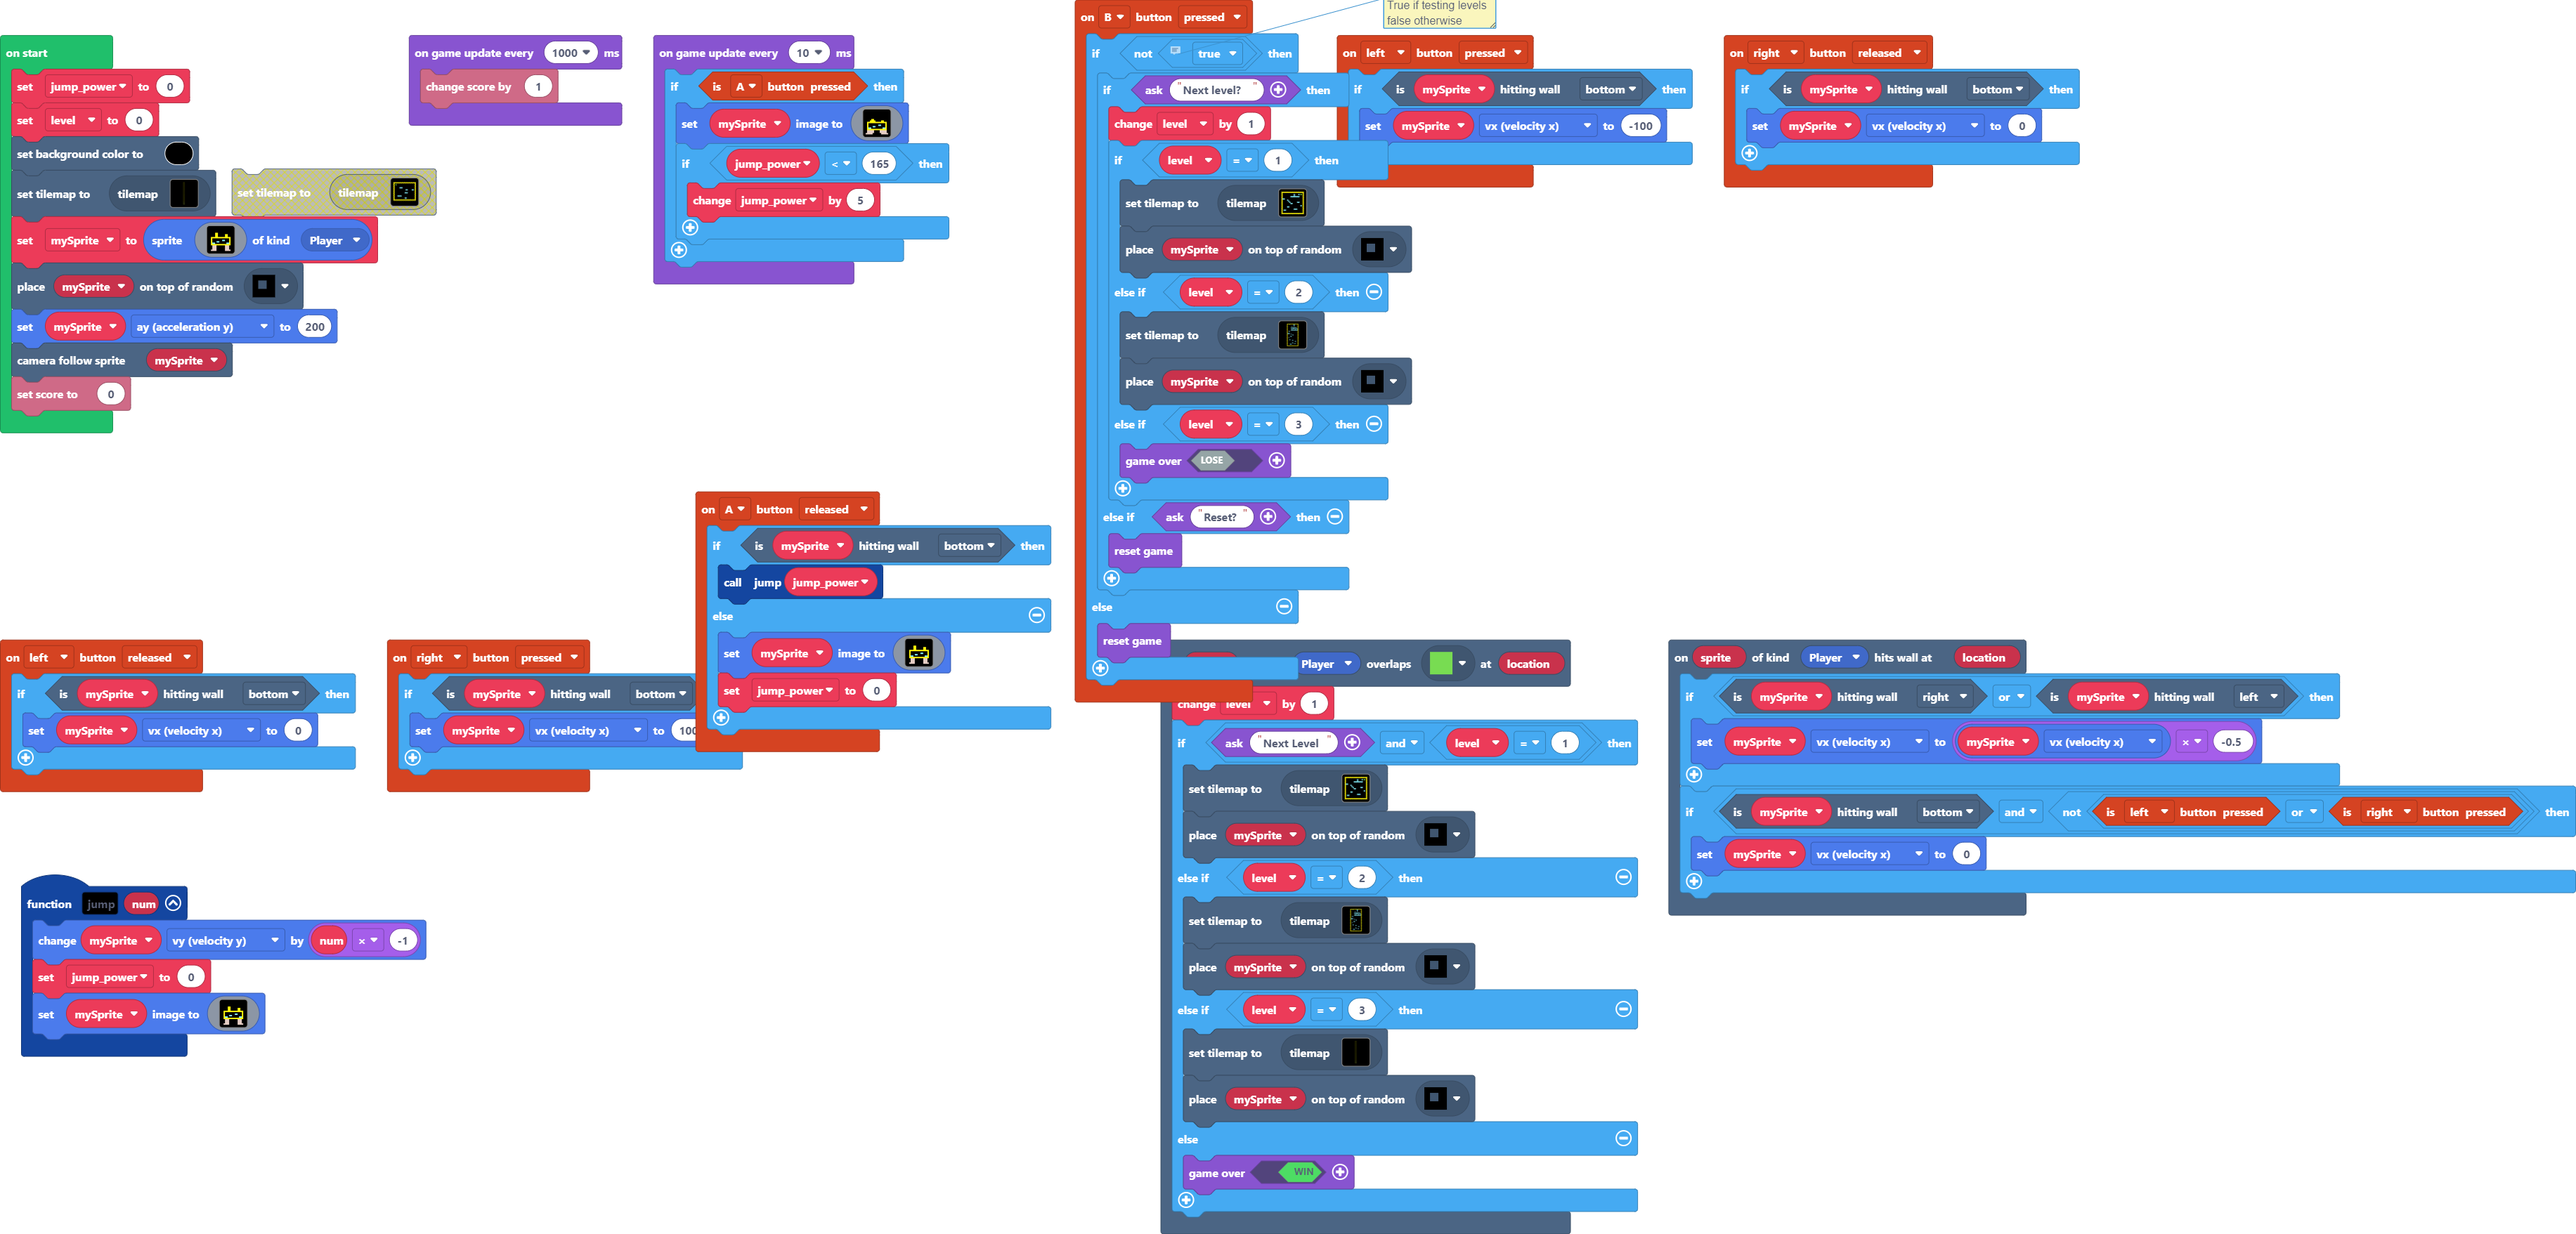
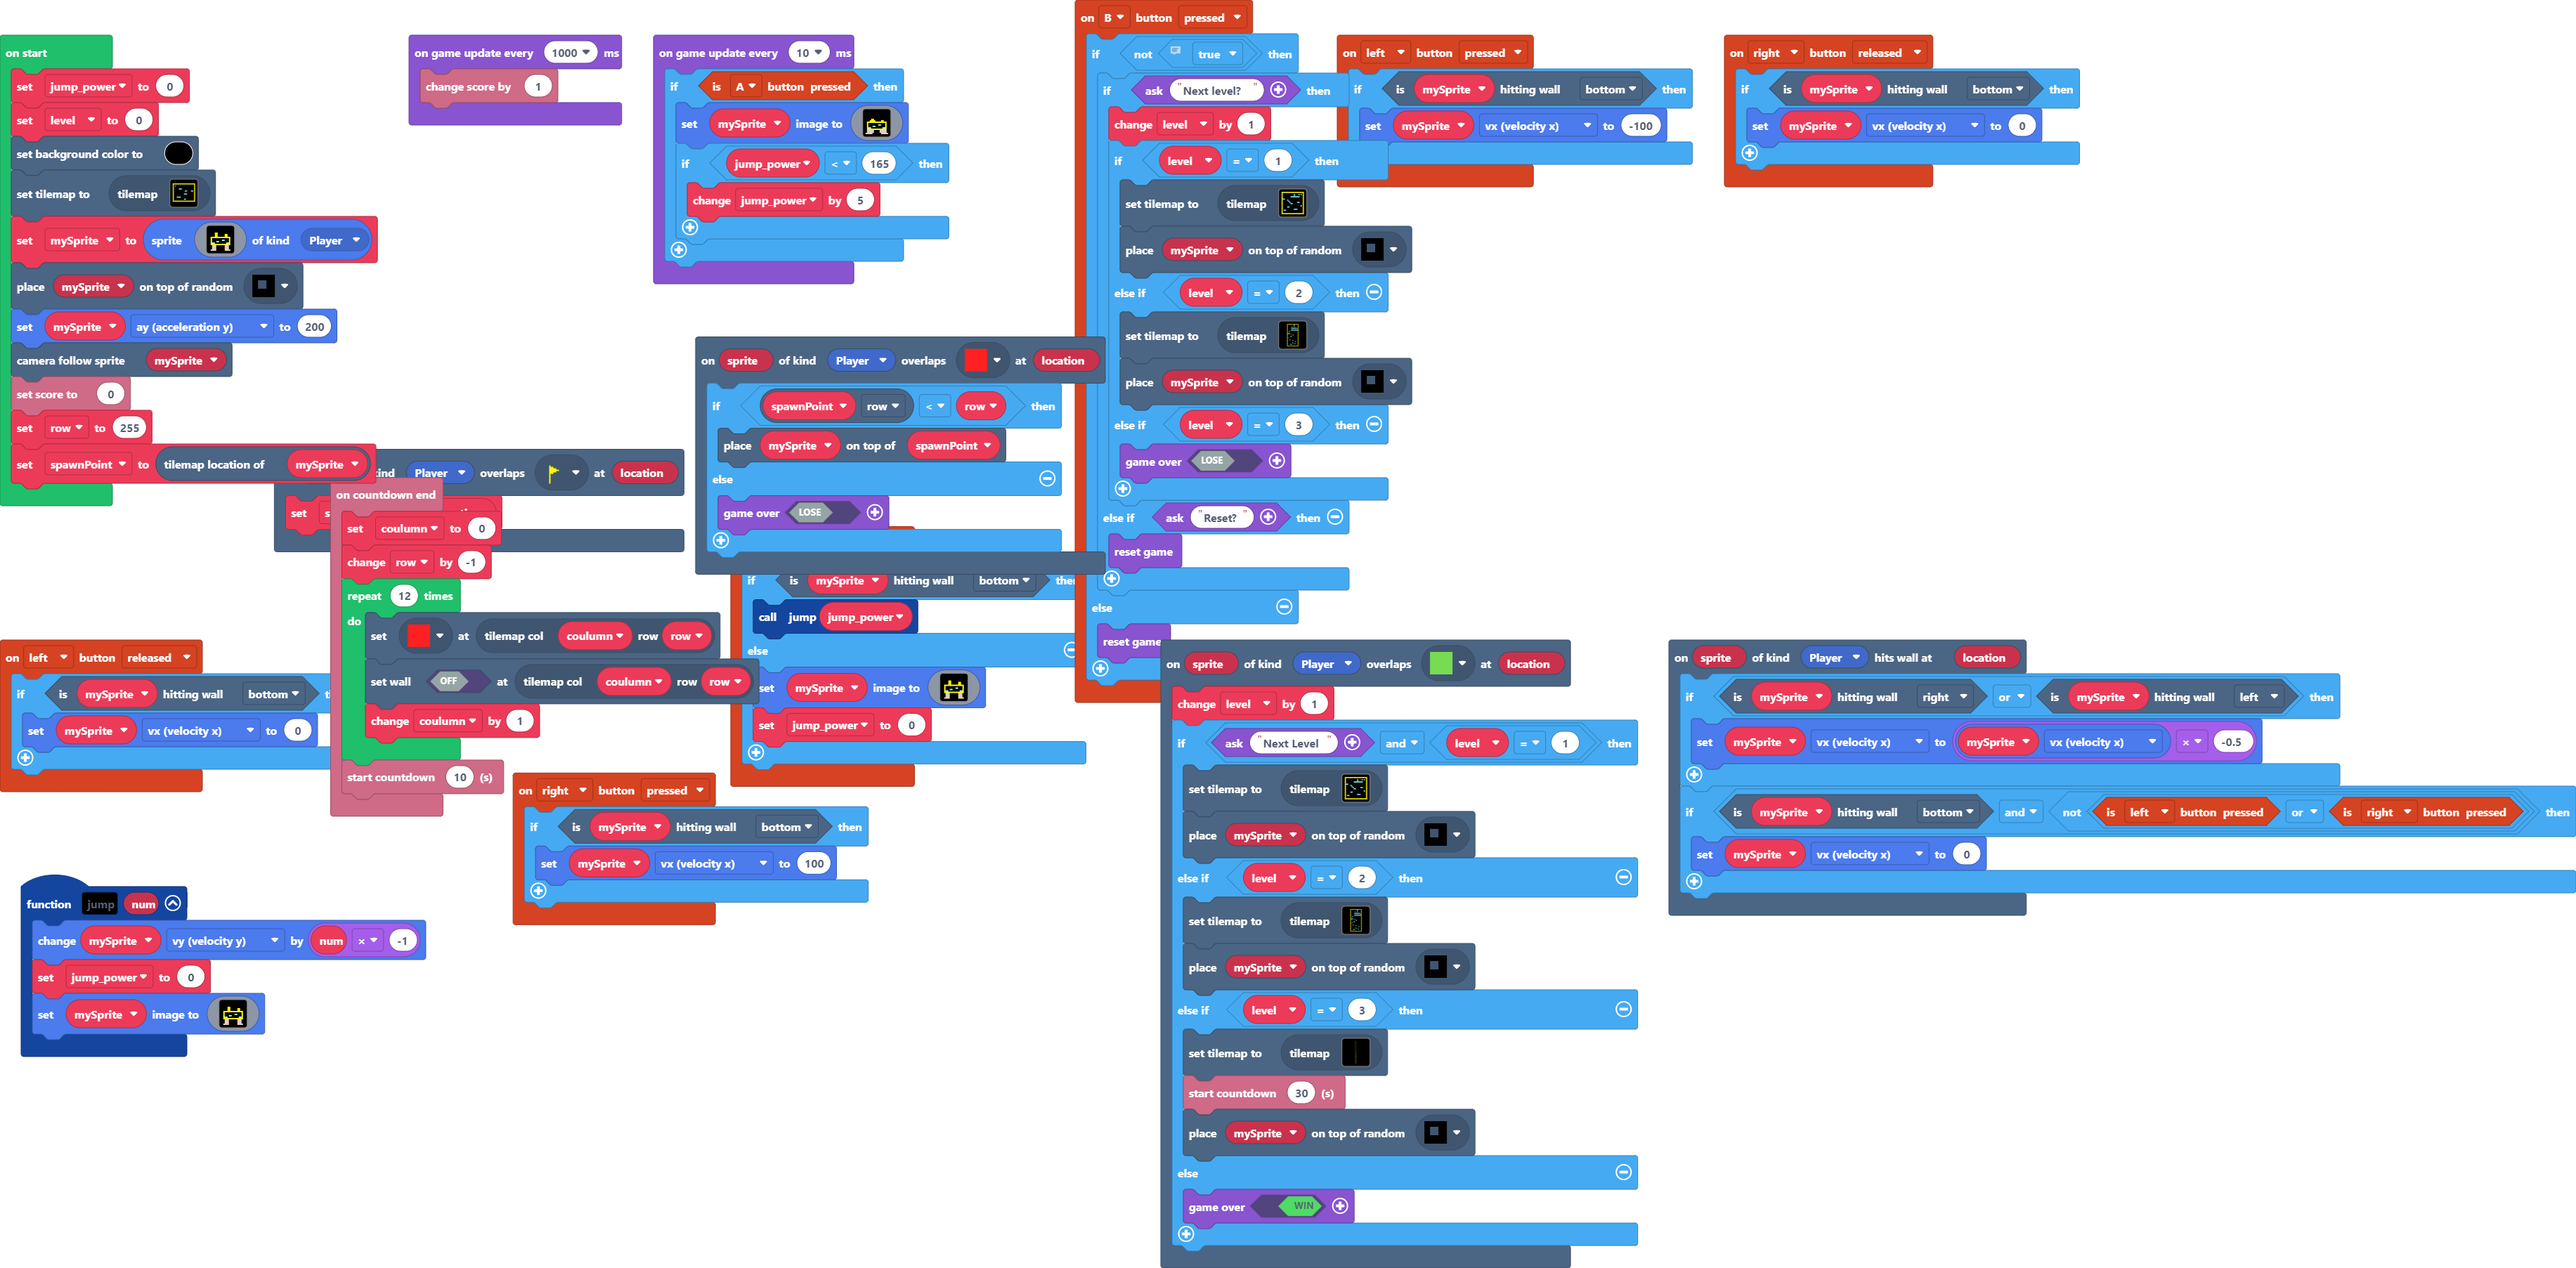
Update main.blocks, main.ts, tilemap.g.jres, tilemap.g.ts

Changed region(s): [[0.0, 0.0, 1.0, 0.9835], [0.5908, 0.9528, 0.6219, 0.9835]]

diff --git a/tilemap.g.ts b/tilemap.g.ts
@@ -28,6 +28,8 @@ namespace myTiles {
     export const tile1 = image.ofBuffer(hex``);
     //% fixedInstance jres blockIdentity=images._tile
     export const tile13 = image.ofBuffer(hex``);
+    //% fixedInstance jres blockIdentity=images._tile
+    export const tile14 = image.ofBuffer(hex``);
 
     helpers._registerFactory("tilemap", function(name: string) {
         switch(helpers.stringTrim(name)) {
@@ -328,7 +330,7 @@ namespace myTiles {
 . . . . . . . . . . . . . . . . 
 `, [myTiles.transparency16], TileScale.Sixteen);
             case "level14":
[2 lines of base64/hex data omitted]
 222222222222
 2..........2
 2..........2
@@ -451,24 +453,24 @@ namespace myTiles {
 2..........2
 2..........2
 2222222....2
+2.......2..2
+2..........2
 2..........2
 2.......2..2
 2..........2
-2.......2..2
 2..........2
 2.......2..2
 2..........2
-2.......2..2
 2..........2
 2.......2..2
 2..........2
-2.......2..2
 2..........2
 2.......2..2
 2..........2
-2.......2..2
 2..........2
 2.......2..2
+2..........2
+2..........2
 2..........2
 2.222......2
 2..........2
@@ -617,6 +619,8 @@ namespace myTiles {
             case "tile1":return tile1;
             case "myTile8":
             case "tile13":return tile13;
+            case "myTile9":
+            case "tile14":return tile14;
         }
         return null;
     })

diff --git a/main.ts b/main.ts
@@ -37,6 +37,7 @@ scene.onOverlapTile(SpriteKind.Player, assets.tile`myTile4`, function (sprite, l
         tiles.placeOnRandomTile(mySprite, assets.tile`spawn block`)
     } else if (level == 3) {
         tiles.setCurrentTilemap(tilemap`level14`)
+        info.startCountdown(30)
         tiles.placeOnRandomTile(mySprite, assets.tile`spawn block`)
     } else {
         game.over(true)
@@ -45,6 +46,13 @@ scene.onOverlapTile(SpriteKind.Player, assets.tile`myTile4`, function (sprite, l
 controller.left.onEvent(ControllerButtonEvent.Pressed, function () {
     if (mySprite.isHittingTile(CollisionDirection.Bottom)) {
         mySprite.vx = -100
+    }
+})
+scene.onOverlapTile(SpriteKind.Player, assets.tile`myTile9`, function (sprite, location) {
+    if (spawnPoint.row < row) {
+        tiles.placeOnTile(mySprite, spawnPoint)
+    } else {
+        game.over(false)
     }
 })
 controller.right.onEvent(ControllerButtonEvent.Released, function () {
@@ -56,6 +64,19 @@ controller.left.onEvent(ControllerButtonEvent.Released, function () {
     if (mySprite.isHittingTile(CollisionDirection.Bottom)) {
         mySprite.vx = 0
     }
+})
+scene.onOverlapTile(SpriteKind.Player, assets.tile`flag`, function (sprite, location) {
+    spawnPoint = location
+})
+info.onCountdownEnd(function () {
+    coulumn = 0
+    row += -1
+    for (let index = 0; index < 12; index++) {
+        tiles.setTileAt(tiles.getTileLocation(coulumn, row), assets.tile`myTile9`)
+        tiles.setWallAt(tiles.getTileLocation(coulumn, row), false)
+        coulumn += 1
+    }
+    info.startCountdown(10)
 })
 controller.right.onEvent(ControllerButtonEvent.Pressed, function () {
     if (mySprite.isHittingTile(CollisionDirection.Bottom)) {
@@ -109,13 +130,16 @@ function jump (num: number) {
         . d d d d . . . . . . d d d d . 
         `)
 }
+let coulumn = 0
+let spawnPoint: tiles.Location = null
+let row = 0
 let mySprite: Sprite = null
 let level = 0
 let jump_power = 0
 jump_power = 0
 level = 0
 scene.setBackgroundColor(15)
-tiles.setCurrentTilemap(tilemap`level14`)
+tiles.setCurrentTilemap(tilemap`level3`)
 mySprite = sprites.create(img`
     . . . . . . . . . . . . . . . . 
     . . . . . . . . . . . . . . . . 
@@ -138,6 +162,8 @@ tiles.placeOnRandomTile(mySprite, assets.tile`spawn block`)
 mySprite.ay = 200
 scene.cameraFollowSprite(mySprite)
 info.setScore(0)
+row = 255
+spawnPoint = mySprite.tilemapLocation()
 game.onUpdateInterval(1000, function () {
     info.changeScoreBy(1)
 })
